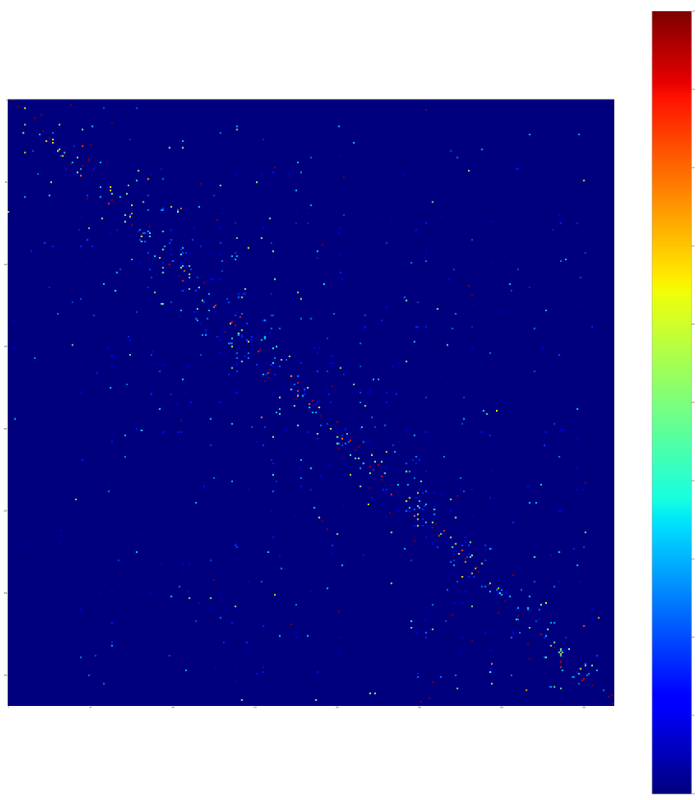
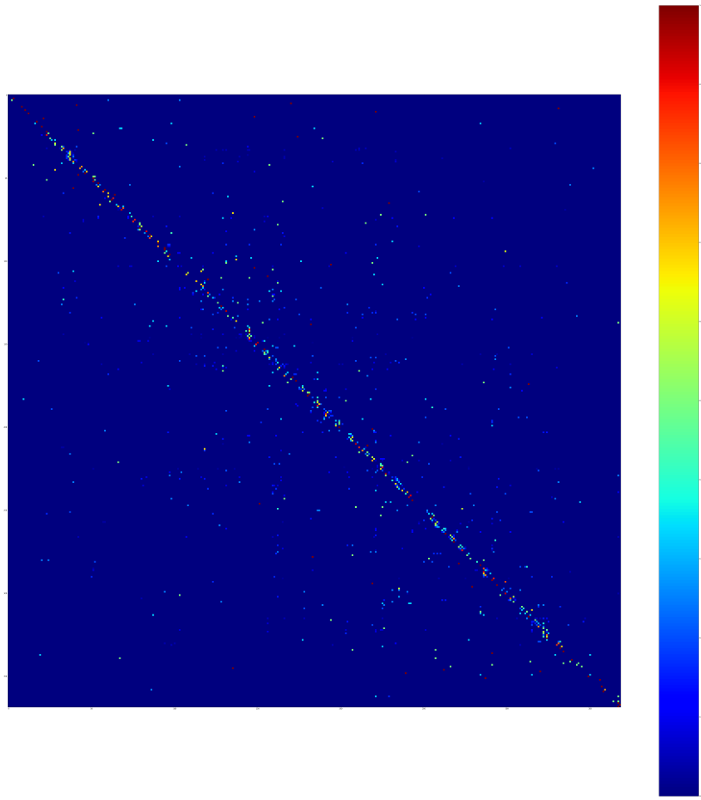
ML/confusion-matrix: Add better solution

diff --git a/ML/confusion-matrix/visualize.py b/ML/confusion-matrix/visualize.py
@@ -165,9 +165,9 @@ with open('confusion-matrix.json') as f:
 # Visulize
 print("Score: {}".format(calculate_score(cm)))
 
-# 64457
-perm = [213, 201, 367, 34, 368, 174, 249, 193, 159, 275, 225, 276, 194, 300, 191, 362, 113, 230, 158, 5, 4, 16, 352, 126, 265, 49, 224, 139, 187, 221, 228, 192, 156, 205, 204, 203, 241, 208, 214, 166, 67, 40, 52, 283, 124, 354, 133, 152, 173, 206, 235, 231, 237, 223, 217, 138, 118, 277, 361, 269, 344, 98, 258, 251, 30, 119, 122, 339, 309, 240, 245, 26, 226, 242, 232, 218, 110, 172, 86, 282, 297, 137, 21, 146, 62, 29, 293, 189, 171, 210, 84, 250, 136, 3, 304, 335, 154, 292, 78, 11, 266, 116, 164, 129, 148, 144, 195, 259, 306, 337, 9, 47, 168, 120, 128, 327, 261, 323, 254, 121, 200, 183, 256, 246, 85, 72, 305, 77, 76, 255, 336, 55, 46, 89, 73, 341, 100, 294, 145, 163, 87, 37, 185, 199, 15, 313, 88, 268, 264, 273, 69, 59, 44, 2, 106, 303, 82, 149, 326, 197, 279, 111, 38, 366, 57, 329, 68, 340, 257, 334, 93, 295, 286, 353, 365, 298, 285, 364, 91, 92, 90, 316, 252, 19, 165, 342, 125, 274, 176, 143, 239, 288, 95, 96, 324, 325, 28, 212, 253, 81, 79, 80, 318, 94, 299, 71, 291, 64, 132, 23, 278, 338, 308, 160, 7, 115, 247, 347, 147, 271, 188, 281, 272, 280, 155, 35, 349, 157, 177, 180, 202, 108, 350, 345, 97, 51, 141, 284, 355, 179, 42, 33, 70, 99, 45, 109, 178, 181, 103, 207, 220, 102, 211, 209, 196, 127, 41, 346, 351, 359, 320, 311, 13, 43, 287, 328, 357, 83, 310, 12, 161, 135, 131, 360, 39, 302, 1, 322, 123, 167, 6, 117, 31, 330, 356, 74, 75, 151, 104, 262, 289, 296, 140, 101, 236, 312, 343, 150, 348, 56, 234, 27, 14, 114, 331, 260, 314, 17, 54, 321, 105, 263, 130, 20, 186, 190, 63, 22, 162, 134, 363, 333, 301, 0, 169, 170, 175, 10, 112, 317, 61, 50, 248, 18, 315, 60, 32, 222, 244, 290, 48, 36, 307, 184, 58, 233, 238, 229, 227, 219, 153, 66, 319, 332, 358, 25, 53, 270, 182, 8, 216, 65, 24, 267, 107, 215, 142, 198, 243]
-result = simulated_annealing(cm, perm, deterministic=True, steps=2* 10**4)
+# 58963
+perm = [34, 201, 24, 65, 225, 153, 248, 295, 286, 113, 362, 284, 141, 158, 276, 275, 22, 63, 230, 221, 228, 194, 219, 227, 229, 49, 192, 190, 130, 20, 78, 151, 75, 74, 353, 365, 298, 285, 364, 91, 92, 131, 300, 43, 287, 148, 129, 164, 193, 237, 241, 217, 223, 19, 252, 121, 261, 262, 104, 48, 36, 307, 162, 134, 58, 224, 200, 183, 185, 199, 112, 144, 342, 90, 316, 271, 188, 156, 136, 304, 335, 3, 345, 350, 296, 140, 101, 186, 212, 291, 71, 299, 21, 62, 146, 84, 82, 149, 97, 176, 31, 361, 250, 68, 274, 51, 45, 266, 11, 154, 234, 32, 128, 120, 42, 33, 99, 70, 165, 60, 315, 18, 259, 247, 9, 256, 349, 6, 322, 41, 167, 123, 115, 203, 337, 306, 239, 143, 173, 289, 236, 56, 14, 27, 312, 150, 343, 348, 294, 249, 174, 269, 35, 145, 163, 87, 37, 168, 47, 100, 341, 72, 85, 346, 351, 246, 135, 119, 30, 161, 263, 105, 258, 251, 220, 363, 0, 301, 333, 282, 297, 137, 206, 138, 178, 181, 103, 207, 109, 254, 152, 124, 283, 354, 133, 288, 66, 319, 25, 332, 358, 29, 293, 81, 326, 303, 2, 106, 44, 98, 344, 147, 347, 170, 169, 155, 127, 117, 122, 339, 309, 253, 279, 197, 111, 38, 366, 324, 325, 28, 334, 257, 340, 93, 313, 88, 15, 89, 46, 280, 272, 179, 355, 330, 356, 327, 265, 281, 16, 336, 210, 125, 171, 189, 86, 172, 110, 102, 211, 209, 196, 260, 314, 331, 114, 273, 268, 264, 69, 59, 17, 255, 76, 77, 305, 116, 180, 177, 139, 187, 218, 231, 235, 357, 328, 245, 26, 226, 240, 232, 242, 40, 67, 292, 73, 55, 214, 57, 329, 126, 352, 166, 39, 360, 302, 1, 157, 323, 83, 310, 12, 13, 311, 233, 238, 278, 52, 79, 80, 338, 308, 195, 94, 318, 132, 23, 64, 160, 175, 320, 95, 96, 317, 61, 108, 202, 208, 359, 290, 222, 244, 184, 204, 205, 4, 5, 10, 7, 50, 54, 321, 191, 216, 368, 243, 213, 215, 142, 277, 118, 198, 159, 53, 367, 107, 267, 8, 270, 182]
+result = simulated_annealing(cm, perm, deterministic=True, steps=2* 10**2)
 print("Score: {}".format(calculate_score(result['cm'])))
 print("Perm: {}".format(list(result['perm'])))
 symbols = read_symbols()
